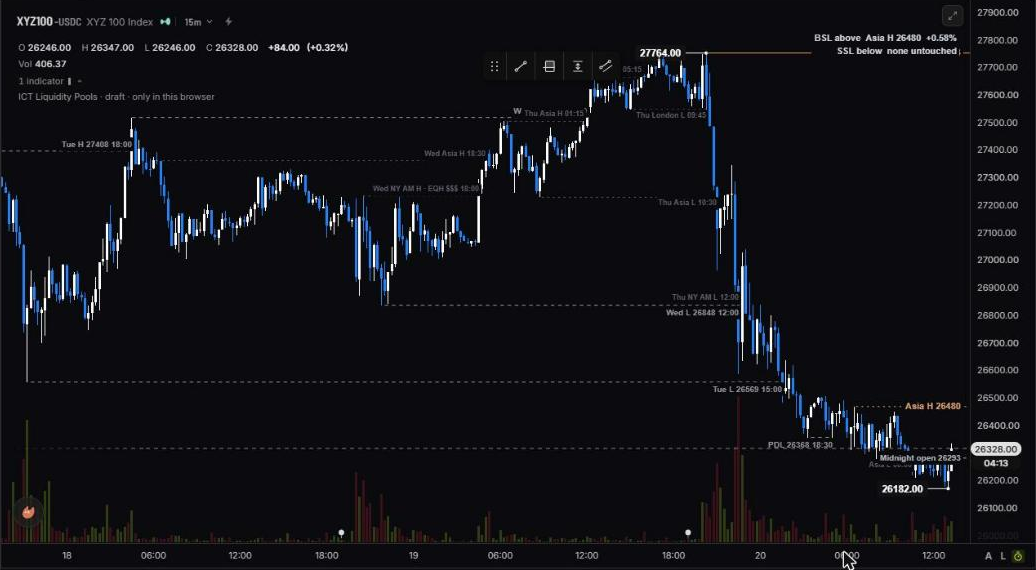
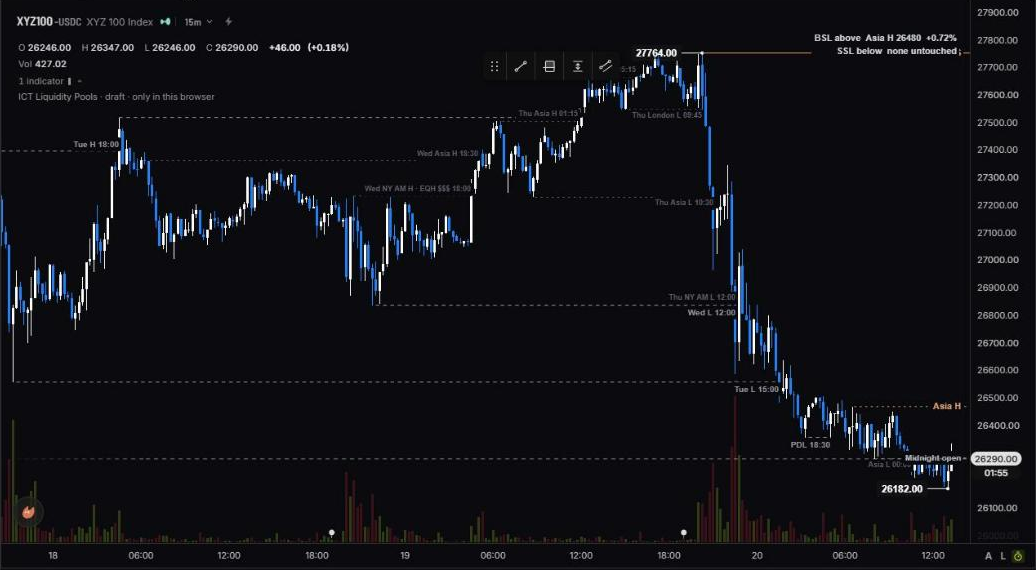
Leave prices out of the tags by default
The price scale already gives the level, so a tag is just its name (PDH,
Wed H 01:30). The corner readout still states the nearest pools with their
prices, and Price in tags puts them back. Screenshots retaken.

Claude-Session: https://claude.ai/code/session_01QNw5gBR7SkJt1dVWPdFTVS

diff --git a/ict-liquidity-map.wrun.ts b/ict-liquidity-map.wrun.ts
@@ -51,7 +51,7 @@ param.int("swept_days", 3, { min: 1, max: 5, label: "History kept (days)", descr
 param.color("swept_color", "#9598A1", { label: "Swept (day / week)", when: "keep_swept" });
 param.color("swept_dim_color", "#5D606B", { label: "Swept (session)", when: "keep_swept" });
 param.bool("show_hud", true, { label: "Draw on liquidity readout", description: "Top-right: the nearest untouched pool above and below" });
-param.bool("tag_prices", true, { label: "Price in tags" });
+param.bool("tag_prices", false, { label: "Price in tags" });
 param.int("tag_size", 11, { min: 8, max: 20, label: "Tag size" });
 param.int("key_width", 1, { min: 1, max: 4, label: "Day / week / $$$ line width" });
 param.color("bsl_color", "#E0A070", { label: "Buy-side (highs)" });

diff --git a/README.md b/README.md
@@ -36,7 +36,8 @@ Review view on 15m, 5m and 1h. The same levels on every timeframe.
 | Grey dashed line, stops at a candle | A day or week level that was raided, ending on the candle that raided it |
 | Dim dotted line, stops at a candle | A session level that was raided |
 
-Tags read `PDH 27764`, `Wed H 27530 01:30` (Wednesday's high, raided at 01:30 New York), `Thu London L 09:45`.
+Tags read `PDH`, `Wed H 01:30` (Wednesday's high, raided at 01:30 New York), `Thu London L 09:45`. Prices are
+left to the price scale; "Price in tags" in the settings puts them back (`PDH 27764`).
 A corner readout names the nearest untouched pool on each side.
 
 Two views:
